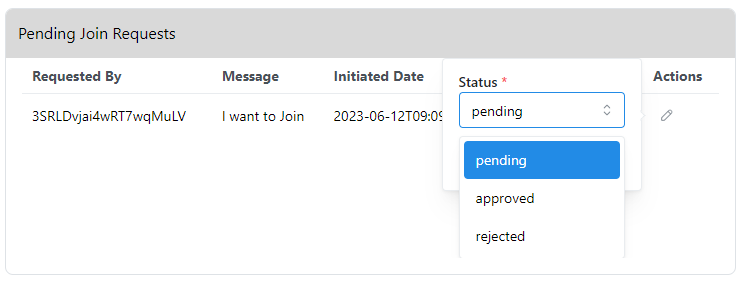
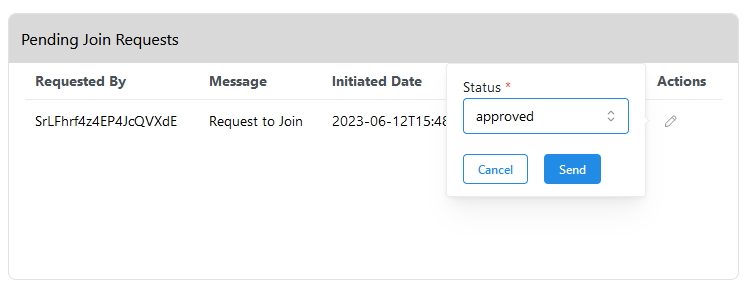
update of page communities.md and page web-app.md

diff --git a/seta-doc/docs/user-guide/communities.md b/seta-doc/docs/user-guide/communities.md
@@ -31,7 +31,7 @@ On **Manage** panel it is possible to access to:
 1. From the side menu click on ^^Discovery^^ -> ^^Communities^^.       
 2. You can either enter in the search bar the name of the Community you are looking for or select from the Community list.      
 3. Click on the button ^^Join^^.     
-4. If the *Membership* status is *closed*, a pop-up window will appear to sent a message to ask for the request.
+4. If the *Membership* status is *closed*, a pop-up window will appear to send a message to ask for the request.
 5. The status changes to *pending* and the join button changes to ^^PENDING^^ until the Community manager approves or reject the request to join. If the request is approved, the status changes to *membership* and the button changes to ^^LEAVE^^, if the request is rejected the status changes to *rejected* and the button changes to ^^REJECTED^^.
 5. If the *Membership* status is *opened*, it is possible to join without sending a request.  
     
@@ -51,12 +51,10 @@ On **Manage** panel it is possible to access to:
   <figcaption>Join Community (*approved*)</figcaption>
 </figure>
 
-
 <figure markdown>
   ![Image title](../img/join_community_rejected.png)
   <figcaption>Join Community (*rejected*)</figcaption>
 </figure>
-
 
     
 ### Create a Community
@@ -178,7 +176,6 @@ Only **users with rights to edit** can change the Community name.
 </figure>
 
 
-
 ### Invite to Join a Community
 
 **From My Communities list** 
@@ -221,10 +218,16 @@ Only **users with rights to edit** can change the Community name.
 2. You can either enter in the search bar the name of the Community you are looking for or select from the Community list.      
 3. Click in the three dots at the right side of each Community and select the option ^^Manage^^.       
 4. In the next window, in section ^^Pending Join Requests^^ you can see the pending requests.                     
-5. By Clicking in the *pen* icon, you can change the status to: *approved*.
+5. By clicking in the *pen* icon, under *actions* column you can change the status to: *approved*.
 6. Click ^^Send^^.      
 
  
+<figure markdown>
+  ![Image title](../img/seta_communities_accept_join.png)
+  <figcaption>List of requests to Join Community</figcaption>
+</figure>
+
+
 
 <figure markdown>
   ![Image title](../img/seta_communities_accept_req_join.png)
@@ -232,6 +235,37 @@ Only **users with rights to edit** can change the Community name.
 </figure>
 
 
+
+**Reject the request to Join My Community**        
+                  
+1. From the side menu click on ^^Manage^^ -> ^^My Communities^^.       
+2. You can either enter in the search bar the name of the Community you are looking for or select from the Community list.      
+3. Click in the three dots at the right side of each Community and select the option ^^Manage^^.       
+4. In the next window, in section ^^Pending Join Requests^^ you can see the pending requests.                     
+5. By clicking in the *pen* icon, under *actions* column you can change the status to: *rejected*.
+6. Click ^^Send^^.      
+
+ 
+<figure markdown>
+  ![Image title](../img/seta_communities_reject_req_join.png)
+  <figcaption>Reject request to Join Community</figcaption>
+</figure>
+
+
+**Keep Pending the request to Join My Community**        
+                  
+1. From the side menu click on ^^Manage^^ -> ^^My Communities^^.       
+2. You can either enter in the search bar the name of the Community you are looking for or select from the Community list.      
+3. Click in the three dots at the right side of each Community and select the option ^^Manage^^.       
+4. In the next window, in section ^^Pending Join Requests^^ you can see the pending requests.                     
+5. By clicking in the *pen* icon, under *actions* column you can change the status to: *pending*.
+6. Click ^^Send^^.      
+
+ 
+<figure markdown>
+  ![Image title](../img/seta_communities_pending_req_join.png)
+  <figcaption>Pending the request to Join Community</figcaption>
+</figure>
 
 ### See the members of a Community
 <!--Anyone can see who is a member of a public Community. In a private Community you have to be a member to see who the other members are. -->
@@ -242,7 +276,7 @@ Only **users with rights to edit** can change the Community name.
 4. In the next window, in section ^^STATS^^, you can see the number of members.              
 
 !!! info
-	If you are not a member of the Community you will only see the number of members.               
+  If you are not a member of the Community you will only see the number of members.               
 
 **From My Communities list** 
                         
@@ -251,12 +285,10 @@ Only **users with rights to edit** can change the Community name.
 3. Click in the three dots at the right side of each Community and select the option ^^View Details^^.                    
 4. In the next window, in section ^^STATS^^, you can click in the number of members to go to the list of members.              
 
-
 <figure markdown>
   ![Image title](../img/communities_members.png)
   <figcaption>Members of a Community</figcaption>
 </figure>
-
 
       
 ### Delete a Resource    
@@ -275,12 +307,10 @@ Only **users with rights to edit** can change the Community name.
 4. In the next window, click on button ^^Delete^^ on the right bottom.  
 5. A confirm window will appear to delete the resource.    
 
-
 <figure markdown>
   ![Image title](../img/delete_resource.png)
   <figcaption>Delete a Resource</figcaption>
 </figure>
-
 
 
 ### Delete a Community
@@ -294,7 +324,6 @@ Only **users with rights to edit** can change the Community name.
 3. After you select the Community, click on button ^^Delete^^ on the left top of the Communities list.
 4. It is also possible to delete the Community by clicking in the three dots at the right side of each Community and select the option ^^Delete Community^^. 
 5. A confirm window will appear to delete the Community.
-
 
 
 <figure markdown>
@@ -323,14 +352,11 @@ Only **users with rights to edit** can change the Community name.
   <figcaption>My Communities</figcaption>
 </figure>                 
 
-
 ### See the list of Resources
-<!--{== *are public Resources from other communities?*==}-->
 
 1. From the side menu click on ^^Discover^^ -> ^^Resources^^.      
 2. You will see a list of the Resources in the page.                        
 3. You can either enter in the search bar the name of the Resource you are looking for.              
-
 
 <figure markdown>
   ![Image title](../img/resource_list.png)
@@ -343,11 +369,11 @@ Only **users with rights to edit** can change the Community name.
 2. You will see a list of the Resources in the page.                   
 3. You can either enter in the search bar the name of the Resource you are looking for.        
 
-
 <figure markdown>
   ![Image title](../img/my_resources_list.png)
   <figcaption>My Resources</figcaption>
 </figure>
+
 
 
 

diff --git a/seta-doc/docs/user-guide/web-app.md b/seta-doc/docs/user-guide/web-app.md
@@ -36,6 +36,15 @@ Within the search page the options to search are:
   <figcaption>Search by phrase</figcaption>
 </figure>
 
+### Enrich query automatically
+
+In the search by terms or phrase it is possible to apply a wizard so the search is enriched automatically. Every term is expanded in the background to include all the related terms.
+
+<figure markdown>
+  ![Image title](../img/search_enrich_terms.png)
+  <figcaption>Enrich query automatically</figcaption>
+</figure>
+
 
 ### Search by document or text
 
